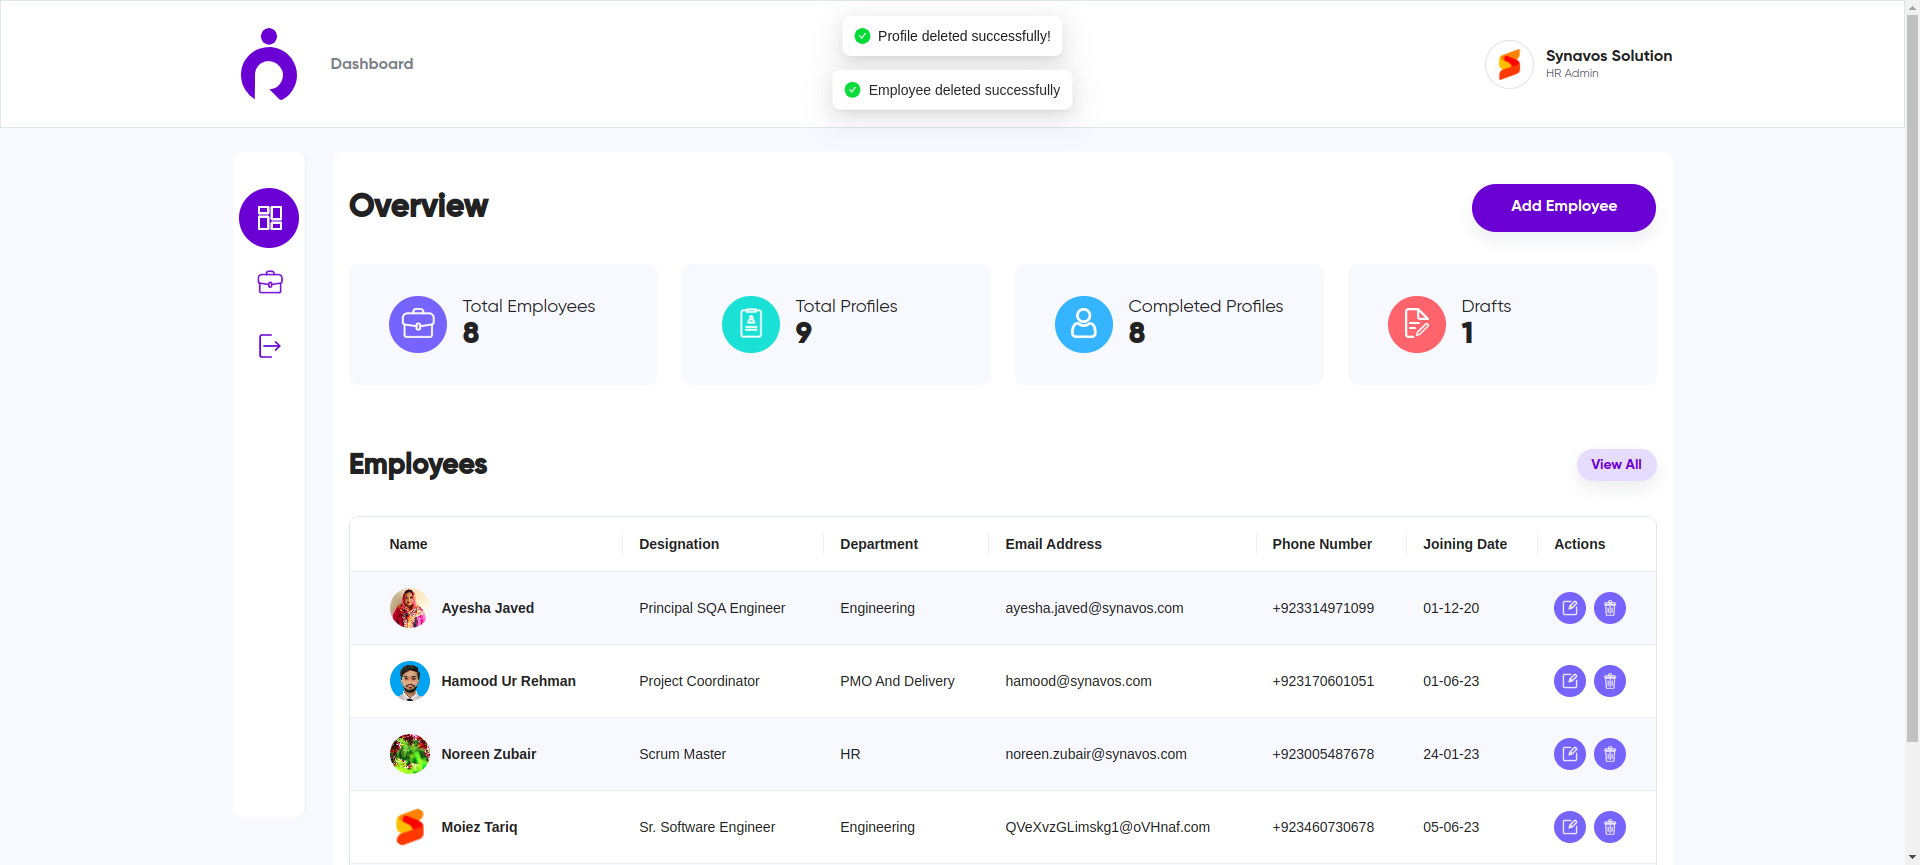
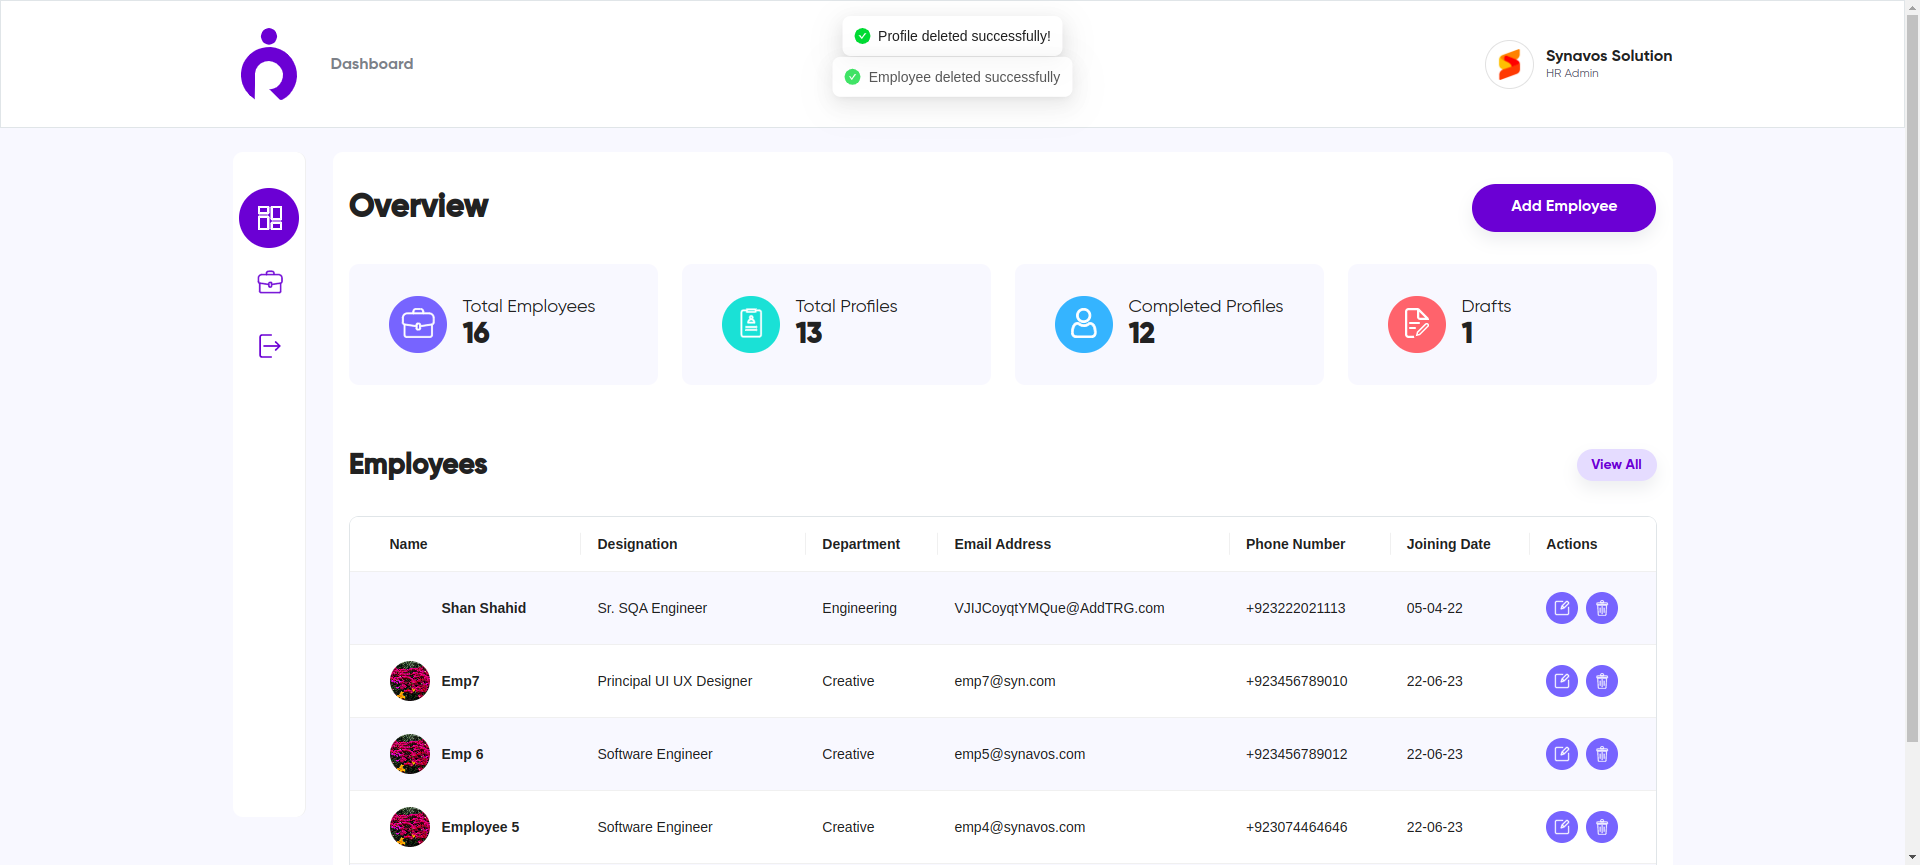
jenkinsfile added

diff --git a/reports/index.html b/reports/index.html
@@ -35,7 +35,7 @@
 <a href="#"><span class="badge badge-primary">POC Web Automation</span></a>
 </li>
 <li class="m-r-10">
-<a href="#"><span class="badge badge-primary">Jun 12, 2023 03:13:38 PM</span></a>
+<a href="#"><span class="badge badge-primary">Jul 3, 2023 07:23:35 PM</span></a>
 </li>
 </ul>
 </div>
@@ -79,9 +79,9 @@
           tag=""
           device="">
           <div class="test-detail">
-            <p class="name">login</p>
+            <p class="name">LoginAPISuccessfulLogin</p>
             <p class="text-sm">
-              <span>3:13:40 PM</span> / <span>00:00:01:027</span>
+              <span>7:23:36 PM</span> / <span>00:00:01:553</span>
               <span class="badge pass-bg log float-right">Pass</span>
             </p>
           </div>
@@ -89,10 +89,10 @@
 <div class="detail-head">
 <div class="p-v-10">
 <div class="info">
-<h5 class="test-status text-pass">login</h5>
-<span class='badge badge-success'>06.12.2023 3:13:40 PM</span>
-<span class='badge badge-danger'>06.12.2023 3:13:41 PM</span>
-<span class='badge badge-default'>00:00:01:027</span>
+<h5 class="test-status text-pass">LoginAPISuccessfulLogin</h5>
+<span class='badge badge-success'>07.03.2023 7:23:36 PM</span>
+<span class='badge badge-danger'>07.03.2023 7:23:38 PM</span>
+<span class='badge badge-default'>00:00:01:553</span>
 &middot; <span class='uri-anchor badge badge-default'>#test-id=1</span>
 <span class='badge badge-default pointer float-right ml-1 et'><i class="fa fa-chevron-down"></i></span>
 <span class='badge badge-default pointer float-right ct'><i class="fa fa-chevron-up"></i></span>
@@ -104,7 +104,7 @@
   <tbody>
       <tr class="event-row">
         <td><span class="badge log pass-bg">Pass</span></td>
-        <td>3:13:41 PM</td>
+        <td>7:23:38 PM</td>
         <td>
           Test Passed
         </td>
@@ -119,9 +119,9 @@
           tag=""
           device="">
           <div class="test-detail">
-            <p class="name">login</p>
+            <p class="name">testEmptyCredentials</p>
             <p class="text-sm">
-              <span>3:13:41 PM</span> / <span>00:00:00:601</span>
+              <span>7:23:38 PM</span> / <span>00:00:00:061</span>
               <span class="badge pass-bg log float-right">Pass</span>
             </p>
           </div>
@@ -129,10 +129,10 @@
 <div class="detail-head">
 <div class="p-v-10">
 <div class="info">
-<h5 class="test-status text-pass">login</h5>
-<span class='badge badge-success'>06.12.2023 3:13:41 PM</span>
-<span class='badge badge-danger'>06.12.2023 3:13:42 PM</span>
-<span class='badge badge-default'>00:00:00:601</span>
+<h5 class="test-status text-pass">testEmptyCredentials</h5>
+<span class='badge badge-success'>07.03.2023 7:23:38 PM</span>
+<span class='badge badge-danger'>07.03.2023 7:23:38 PM</span>
+<span class='badge badge-default'>00:00:00:061</span>
 &middot; <span class='uri-anchor badge badge-default'>#test-id=2</span>
 <span class='badge badge-default pointer float-right ml-1 et'><i class="fa fa-chevron-down"></i></span>
 <span class='badge badge-default pointer float-right ct'><i class="fa fa-chevron-up"></i></span>
@@ -144,7 +144,7 @@
   <tbody>
       <tr class="event-row">
         <td><span class="badge log pass-bg">Pass</span></td>
-        <td>3:13:42 PM</td>
+        <td>7:23:38 PM</td>
         <td>
           Test Passed
         </td>
@@ -159,9 +159,9 @@
           tag=""
           device="">
           <div class="test-detail">
-            <p class="name">login</p>
+            <p class="name">testInvalidCredentials</p>
             <p class="text-sm">
-              <span>3:13:42 PM</span> / <span>00:00:00:962</span>
+              <span>7:23:38 PM</span> / <span>00:00:00:191</span>
               <span class="badge pass-bg log float-right">Pass</span>
             </p>
           </div>
@@ -169,10 +169,10 @@
 <div class="detail-head">
 <div class="p-v-10">
 <div class="info">
-<h5 class="test-status text-pass">login</h5>
-<span class='badge badge-success'>06.12.2023 3:13:42 PM</span>
-<span class='badge badge-danger'>06.12.2023 3:13:43 PM</span>
-<span class='badge badge-default'>00:00:00:962</span>
+<h5 class="test-status text-pass">testInvalidCredentials</h5>
+<span class='badge badge-success'>07.03.2023 7:23:38 PM</span>
+<span class='badge badge-danger'>07.03.2023 7:23:38 PM</span>
+<span class='badge badge-default'>00:00:00:191</span>
 &middot; <span class='uri-anchor badge badge-default'>#test-id=3</span>
 <span class='badge badge-default pointer float-right ml-1 et'><i class="fa fa-chevron-down"></i></span>
 <span class='badge badge-default pointer float-right ct'><i class="fa fa-chevron-up"></i></span>
@@ -184,7 +184,7 @@
   <tbody>
       <tr class="event-row">
         <td><span class="badge log pass-bg">Pass</span></td>
-        <td>3:13:43 PM</td>
+        <td>7:23:38 PM</td>
         <td>
           Test Passed
         </td>
@@ -199,9 +199,9 @@
           tag=""
           device="">
           <div class="test-detail">
-            <p class="name">logout</p>
+            <p class="name">testMissingEmailParameter</p>
             <p class="text-sm">
-              <span>3:13:43 PM</span> / <span>00:00:00:444</span>
+              <span>7:23:38 PM</span> / <span>00:00:00:112</span>
               <span class="badge pass-bg log float-right">Pass</span>
             </p>
           </div>
@@ -209,10 +209,10 @@
 <div class="detail-head">
 <div class="p-v-10">
 <div class="info">
-<h5 class="test-status text-pass">logout</h5>
-<span class='badge badge-success'>06.12.2023 3:13:43 PM</span>
-<span class='badge badge-danger'>06.12.2023 3:13:43 PM</span>
-<span class='badge badge-default'>00:00:00:444</span>
+<h5 class="test-status text-pass">testMissingEmailParameter</h5>
+<span class='badge badge-success'>07.03.2023 7:23:38 PM</span>
+<span class='badge badge-danger'>07.03.2023 7:23:38 PM</span>
+<span class='badge badge-default'>00:00:00:112</span>
 &middot; <span class='uri-anchor badge badge-default'>#test-id=4</span>
 <span class='badge badge-default pointer float-right ml-1 et'><i class="fa fa-chevron-down"></i></span>
 <span class='badge badge-default pointer float-right ct'><i class="fa fa-chevron-up"></i></span>
@@ -224,7 +224,127 @@
   <tbody>
       <tr class="event-row">
         <td><span class="badge log pass-bg">Pass</span></td>
-        <td>3:13:43 PM</td>
+        <td>7:23:38 PM</td>
+        <td>
+          Test Passed
+        </td>
+      </tr>
+  </tbody>
+</table>
+</div>
+          </div>
+        </li>
+        <li class="test-item"  status="pass" test-id="5"
+          author=""
+          tag=""
+          device="">
+          <div class="test-detail">
+            <p class="name">testMissingPasswordParameter</p>
+            <p class="text-sm">
+              <span>7:23:38 PM</span> / <span>00:00:00:035</span>
+              <span class="badge pass-bg log float-right">Pass</span>
+            </p>
+          </div>
+          <div class="test-contents d-none">
+<div class="detail-head">
+<div class="p-v-10">
+<div class="info">
+<h5 class="test-status text-pass">testMissingPasswordParameter</h5>
+<span class='badge badge-success'>07.03.2023 7:23:38 PM</span>
+<span class='badge badge-danger'>07.03.2023 7:23:38 PM</span>
+<span class='badge badge-default'>00:00:00:035</span>
+&middot; <span class='uri-anchor badge badge-default'>#test-id=5</span>
+<span class='badge badge-default pointer float-right ml-1 et'><i class="fa fa-chevron-down"></i></span>
+<span class='badge badge-default pointer float-right ct'><i class="fa fa-chevron-up"></i></span>
+</div>
+</div>
+</div><div class="detail-body mt-4">
+<table class="table table-sm">
+  <thead><tr><th class="status-col">Status</th><th class="timestamp-col">Timestamp</th><th class="details-col">Details</th></tr></thead>
+  <tbody>
+      <tr class="event-row">
+        <td><span class="badge log pass-bg">Pass</span></td>
+        <td>7:23:38 PM</td>
+        <td>
+          Test Passed
+        </td>
+      </tr>
+  </tbody>
+</table>
+</div>
+          </div>
+        </li>
+        <li class="test-item"  status="pass" test-id="6"
+          author=""
+          tag=""
+          device="">
+          <div class="test-detail">
+            <p class="name">verifyDesignationApi</p>
+            <p class="text-sm">
+              <span>7:23:38 PM</span> / <span>00:00:00:232</span>
+              <span class="badge pass-bg log float-right">Pass</span>
+            </p>
+          </div>
+          <div class="test-contents d-none">
+<div class="detail-head">
+<div class="p-v-10">
+<div class="info">
+<h5 class="test-status text-pass">verifyDesignationApi</h5>
+<span class='badge badge-success'>07.03.2023 7:23:38 PM</span>
+<span class='badge badge-danger'>07.03.2023 7:23:39 PM</span>
+<span class='badge badge-default'>00:00:00:232</span>
+&middot; <span class='uri-anchor badge badge-default'>#test-id=6</span>
+<span class='badge badge-default pointer float-right ml-1 et'><i class="fa fa-chevron-down"></i></span>
+<span class='badge badge-default pointer float-right ct'><i class="fa fa-chevron-up"></i></span>
+</div>
+</div>
+</div><div class="detail-body mt-4">
+<table class="table table-sm">
+  <thead><tr><th class="status-col">Status</th><th class="timestamp-col">Timestamp</th><th class="details-col">Details</th></tr></thead>
+  <tbody>
+      <tr class="event-row">
+        <td><span class="badge log pass-bg">Pass</span></td>
+        <td>7:23:39 PM</td>
+        <td>
+          Test Passed
+        </td>
+      </tr>
+  </tbody>
+</table>
+</div>
+          </div>
+        </li>
+        <li class="test-item"  status="pass" test-id="7"
+          author=""
+          tag=""
+          device="">
+          <div class="test-detail">
+            <p class="name">getDepartmentsId</p>
+            <p class="text-sm">
+              <span>7:23:39 PM</span> / <span>00:00:00:256</span>
+              <span class="badge pass-bg log float-right">Pass</span>
+            </p>
+          </div>
+          <div class="test-contents d-none">
+<div class="detail-head">
+<div class="p-v-10">
+<div class="info">
+<h5 class="test-status text-pass">getDepartmentsId</h5>
+<span class='badge badge-success'>07.03.2023 7:23:39 PM</span>
+<span class='badge badge-danger'>07.03.2023 7:23:39 PM</span>
+<span class='badge badge-default'>00:00:00:256</span>
+&middot; <span class='uri-anchor badge badge-default'>#test-id=7</span>
+<span class='badge badge-default pointer float-right ml-1 et'><i class="fa fa-chevron-down"></i></span>
+<span class='badge badge-default pointer float-right ct'><i class="fa fa-chevron-up"></i></span>
+</div>
+</div>
+</div><div class="detail-body mt-4">
+<table class="table table-sm">
+  <thead><tr><th class="status-col">Status</th><th class="timestamp-col">Timestamp</th><th class="details-col">Details</th></tr></thead>
+  <tbody>
+      <tr class="event-row">
+        <td><span class="badge log pass-bg">Pass</span></td>
+        <td>7:23:39 PM</td>
         <td>
           Test Passed
         </td>
@@ -248,19 +368,19 @@
 <div class="col-md-3">
 <div class="card"><div class="card-body">
 <p class="m-b-0">Started</p>
-<h3>Jun 12, 2023 03:13:38 PM</h3>
+<h3>Jul 3, 2023 07:23:35 PM</h3>
 </div></div>
 </div>
 <div class="col-md-3">
 <div class="card"><div class="card-body">
 <p class="m-b-0">Ended</p>
-<h3>Jun 12, 2023 03:13:43 PM</h3>
+<h3>Jul 3, 2023 07:23:39 PM</h3>
 </div></div>
 </div>
 <div class="col-md-3">
 <div class="card"><div class="card-body">
 <p class="m-b-0 text-pass">Tests Passed</p>
-<h3>4</h3>
+<h3>7</h3>
 </div></div>
 </div>
 <div class="col-md-3">
@@ -283,7 +403,7 @@
 </div>
 <div class="card-footer">
 <div><small data-tooltip='100%'>
-<b>4</b> tests passed
+<b>7</b> tests passed
 </small>
 </div>
 <div>
@@ -305,7 +425,7 @@
 </div>
 </div>
 <div class="card-footer">
-<div><small data-tooltip='100%'><b>4</b> events passed</small></div>
+<div><small data-tooltip='100%'><b>7</b> events passed</small></div>
 <div>
 <small data-tooltip='0%'><b>0</b> events failed,
 <b data-tooltip='%'>0</b> others
@@ -324,7 +444,7 @@
 </div></div>
 <script>
 var timeline = {
-"login":1.027,"login":0.601,"login":0.962,"logout":0.444
+"LoginAPISuccessfulLogin":1.553,"testEmptyCredentials":0.061,"testInvalidCredentials":0.191,"testMissingEmailParameter":0.112,"testMissingPasswordParameter":0.035,"verifyDesignationApi":0.232,"getDepartmentsId":0.256
 };
 </script>
 <div class="row">
@@ -347,7 +467,7 @@ var timeline = {
 <script>
 var statusGroup = {
 parentCount: 5,
-passParent: 4,
+passParent: 7,
 failParent: 0,
 warningParent: 0,
 skipParent: 0,
@@ -364,7 +484,7 @@ warningGrandChild: 0,
 skipGrandChild: 0,
 infoGrandChild: 0,
 eventsCount: 5,
-passEvents: 4,
+passEvents: 7,
 failEvents: 0,
 warningEvents: 0,
 skipEvents: 0,

diff --git a/src/test/java/pocPackage/LoginApiTest.java b/src/test/java/pocPackage/LoginApiTest.java
@@ -59,7 +59,7 @@ public class LoginApiTest {
         request.body(loginRequest);
         Response response = request.post(URLResources.loginResource());
 
-        Assert.assertEquals(response.getStatusCode(), 401);
+        Assert.assertEquals(response.getStatusCode(), 400);
 
         System.out.println(response.asString());
         String errorMessage = response.getBody().asString();
@@ -70,7 +70,7 @@ public class LoginApiTest {
         if(data != null){
             Assert.assertNull(loginResponse.getData().getAccess_token());
         }
-        Assert.assertEquals(loginResponse.getError(), "Unauthorized");
+        Assert.assertEquals(loginResponse.getError(), "Bad Request");
         if(loginResponse.getPath() != null){
             Assert.assertEquals("/auth/login", loginResponse.getPath());
         }

diff --git a/src/test/java/pocPackage/Listeners.java b/src/test/java/pocPackage/Listeners.java
@@ -48,6 +48,7 @@ public class Listeners extends base implements ITestListener {
         String[] groups = result.getMethod().getGroups();
         for(String group : groups){
             if(group.equals("restAssuredTests")){
+
                 System.out.println("test fail");
                 return;
             }
